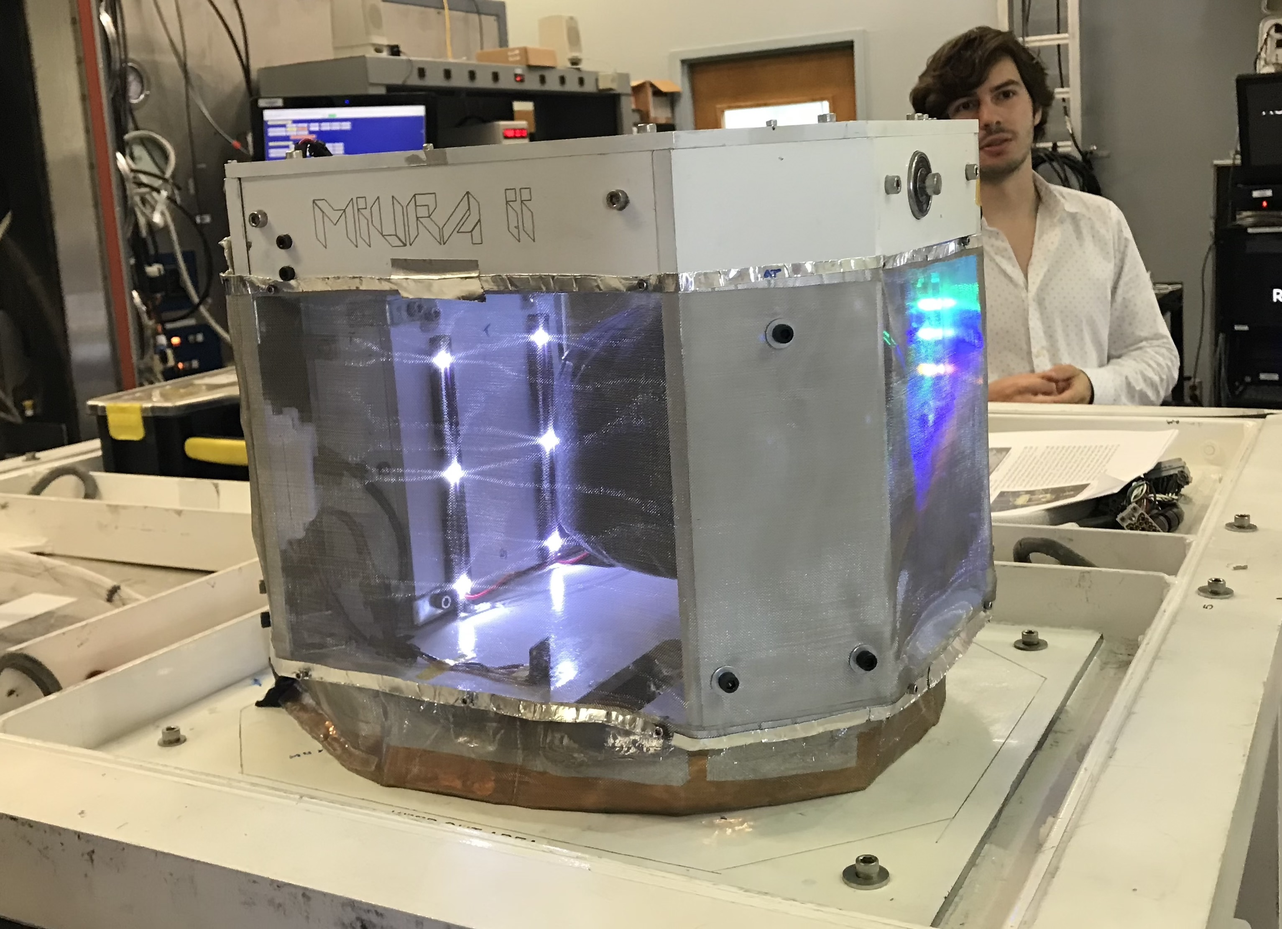
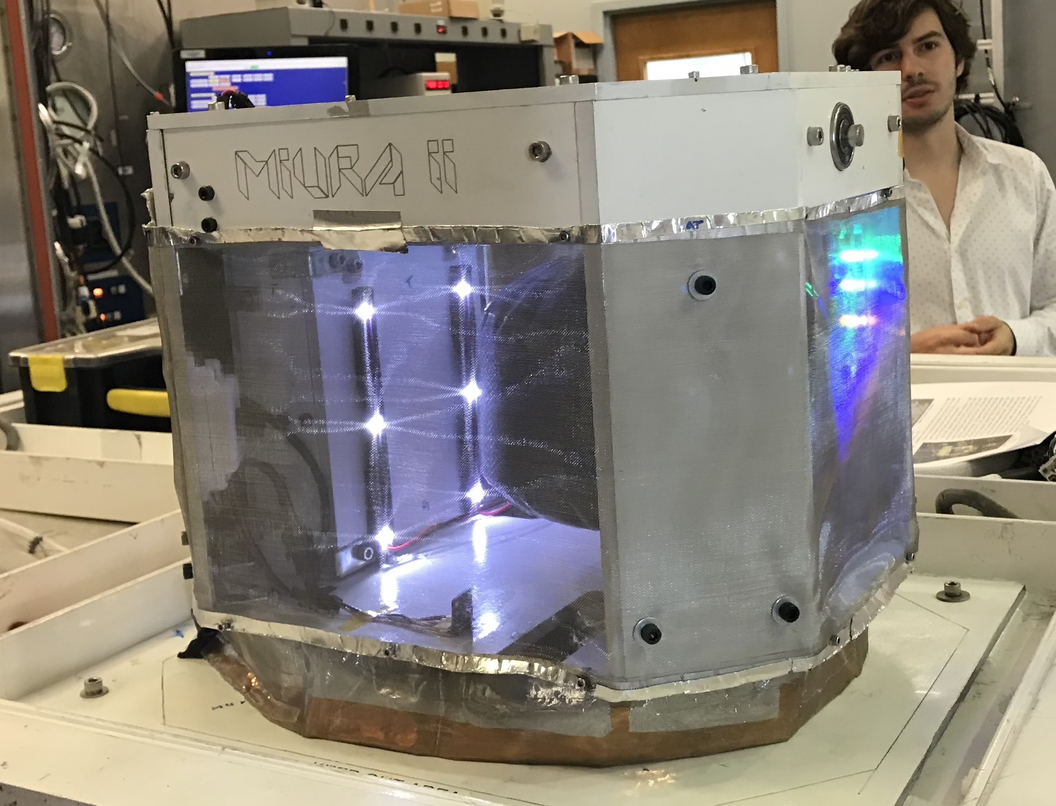
rocketsat images

diff --git a/projects.md b/projects.md
@@ -2,15 +2,15 @@
 
 ## RocketSat 12: Avionics Engineer
 
-<img src="images/testing.png" alt="testing" align="left" height="225" hspace="20" vpsace="50"/>RocketSat 12 was a project through the Colorado Space Grant Consortium, contributing a payload to NASA’s 2018 RockSat-X sounding rocket. This project's objective was to receive and process RF signals from a local Doppler Nexrad station in order to determine the signal VCP and the payload's radial velocity relative to the station using doppler shift. I joined the project a few month before launch, and worked on the Avionics team from May 2018 until September 2018. The project was used Python 3 and Linux running off of a Raspberry Pi 3, and made use of a HackRF One Software Defined Radio peripheral to receive signals. While working on the Avionics team, I was responsible for fixing faulty components of the Avionics subsystem and debugging the system's malfunctioning software. I wrote a majority of the system's final code, and made integral contributions to the subsystem to prepare the project for flight. The project failed to determine the payload radial velocity due to resolution constraints from available hardware, but successfully characterized the nearby signal VCP.
+<img src="images/testing.png" alt="testing" align="left" height="225" hspace="20" vpsace="50"/> RocketSat 12 was a project through the Colorado Space Grant Consortium, contributing a payload to NASA’s 2018 RockSat-X sounding rocket. This project's objective was to receive and process RF signals from a local Doppler Nexrad station in order to determine the signal VCP and the payload's radial velocity relative to the station using doppler shift. I joined the project a few month before launch, and worked on the Avionics team from May 2018 until September 2018. The project was used Python 3 and Linux running off of a Raspberry Pi 3, and made use of a HackRF One Software Defined Radio peripheral to receive signals. While working on the Avionics team, I was responsible for fixing faulty components of the Avionics subsystem and debugging the system's malfunctioning software. I wrote a majority of the system's final code, and made integral contributions to the subsystem to prepare the project for flight. The project failed to determine the payload radial velocity due to resolution constraints from available hardware, but successfully characterized the nearby signal VCP.
 
-<img src="images/rockcad.png" alt="testing" align="left" width="250" hspace="10" vpsace="50"/> <img src="images/prelaunch.png" alt="testing" align="left" width="250" hspace="10" vpsace="50"/> <img src="images/postlaunch.png" alt="testing" align="left" width="250" hspace="10" vpsace="50"/>
+<img src="images/rockcad.png" alt="testing" align="left" width="200" hspace="10" vpsace="50"/> <img src="images/prelaunch.png" alt="testing" align="left" width="200" hspace="10" vpsace="50"/> <img src="images/postlaunch.png" alt="testing" align="left" width="200" hspace="10" vpsace="50"/>
 
 ****
 
 ## Miura II: Flight Software Team
 
-Miura II was also a project through the Colorado Space Grant Consortium, contributing a payload to NASA’s 2018 High Altitude Student Platform. This project tested the pressurized deployment of a soft-shell, insulated, expandable structure in a near-space environment. This project was the second iteration of a previous project researching an expandable structure deployed using the Miura-Ori folding method. his project also used a Raspberry Pi running Linux and was written almost entirely in Python 3. I joined this project during the proposal phase during November 2017 and worked on it until flight in September 2018. While on the Flight Software team, I contributed to the full design phase of the project, including the project proposal and several design reviews. I wrote a majority of the project's flight software, which operated a motor, several solenoid valves, and heaters for the system, included serial communication with a ground station to allow command based operation of the payload, and included a series of emergency protocol in the case of hardware failure during the pressurization of the payload.
+<img src="images/payload.jpeg" alt="testing" align="left" height="225" hspace="20" vpsace="50"/> Miura II was also a project through the Colorado Space Grant Consortium, contributing a payload to NASA’s 2018 High Altitude Student Platform. This project tested the pressurized deployment of a soft-shell, insulated, expandable structure in a near-space environment. This project was the second iteration of a previous project researching an expandable structure deployed using the Miura-Ori folding method. his project also used a Raspberry Pi running Linux and was written almost entirely in Python 3. I joined this project during the proposal phase during November 2017 and worked on it until flight in September 2018. While on the Flight Software team, I contributed to the full design phase of the project, including the project proposal and several design reviews. I wrote a majority of the project's flight software, which operated a motor, several solenoid valves, and heaters for the system, included serial communication with a ground station to allow command based operation of the payload, and included a series of emergency protocol in the case of hardware failure during the pressurization of the payload.
 
 
 ## Project Threat Level Midnight: Team Co-Lead/Software Lead
